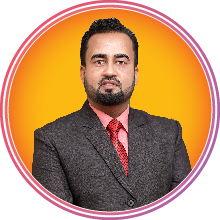
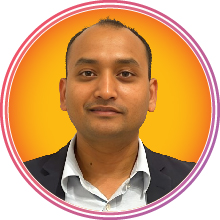
- updated team

diff --git a/template/widgets/team-1-block.php b/template/widgets/team-1-block.php
@@ -46,27 +46,13 @@
                             </div><!-- /.team-card__image -->
                             <div class="team-card__content">
                                 <h3 class="team-card__title">
-                                    <a href="#">Sujan Basnet</a>
+                                    <a href="#">Naresh Bohara</a>
                                 </h3><!-- /.team-card__title -->
                                 <p class="team-card__designation">HR Manager</p><!-- /.team-card__designation -->
                             </div><!-- /.team-card__content -->
                         </div><!-- /.team-card -->
                     </div><!-- /.item -->
-                    <div class="col-md-6 col-lg-3">
-                        <div class="team-card wow fadeInUp" data-wow-duration='1500ms' data-wow-delay='200ms'>
-                            <div class="team-card__image">
-                                <div class="team-card__image__bg"></div><!-- /.team-card__image__bg -->
-                                <img src="assets/images/team/team-1-4.jpg" alt="david cooper">
-                                
-                            </div><!-- /.team-card__image -->
-                            <div class="team-card__content">
-                                <h3 class="team-card__title">
-                                    <a href="#">Netra Poudel</a>
-                                </h3><!-- /.team-card__title -->
-                                <p class="team-card__designation">Admin</p><!-- /.team-card__designation -->
-                            </div><!-- /.team-card__content -->
-                        </div><!-- /.team-card -->
-                    </div><!-- /.item -->
+                    
                 </div><!-- /.row -->
             </div><!-- /.container -->
         </section><!-- /.team-one -->
